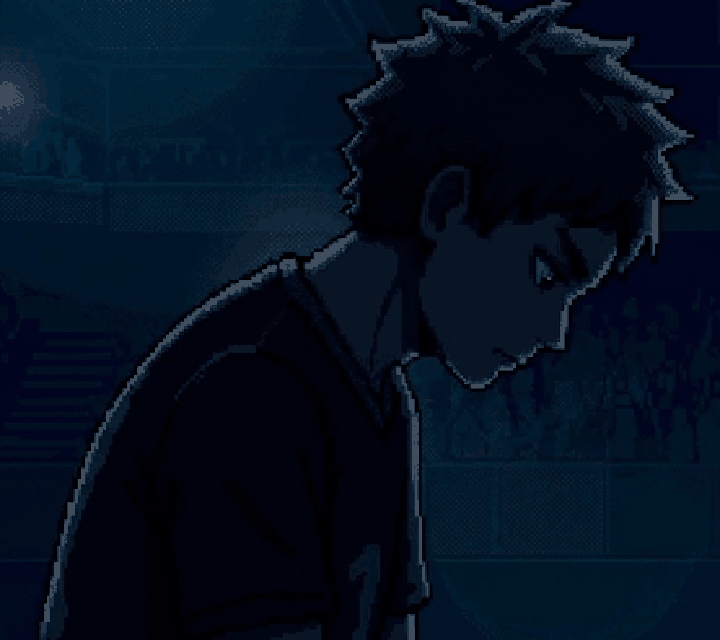
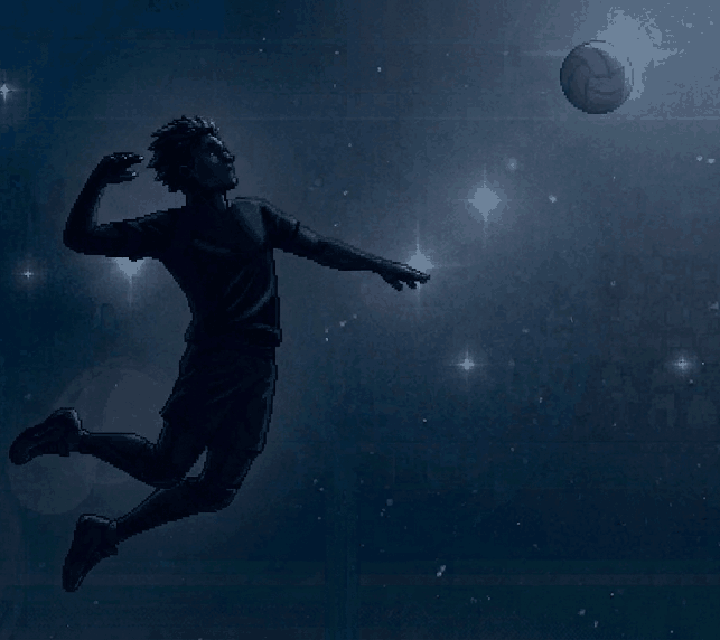
ZONA 3 CT1: just-in-attack correcto y espejado por atacante
- Reemplaza la imagen equivocada por just-in-attack2 y la procesa a
  720x640.
- El ataque local se muestra con el jugador a la izquierda y el rival
  a la derecha.
- TU DEFENSA usa just-in-attack en lugar de las manos del bloqueo.
- Ajusta el encuadre para que la pelota quede visible.
- 149 tests en verde.

diff --git a/app/tests/scenes.test.ts b/app/tests/scenes.test.ts
@@ -385,6 +385,51 @@ describe('guion de escenas CT1', () => {
     ).toBe(false)
   })
 
+  it('espeja el ataque según el lado que ataca', () => {
+    const pre = create()
+    const attackEvent = (
+      attackerId: string,
+      target: ReturnType<typeof cell>,
+    ): MatchEvent[] => [
+      {
+        type: 'ATTACK',
+        attackerId,
+        kind: 'power',
+        target,
+        resolution: {
+          A: 6,
+          D: 4,
+          edge: 2,
+          zone: 2,
+          outcome: 'dig',
+          digQuality: 2,
+          defenderId:
+            attackerId === 'home-opposite'
+              ? 'away-libero'
+              : 'home-libero',
+          blockerIds: [],
+          scheme: 'spread',
+        },
+      },
+    ]
+    const home = sceneScript(
+      pre,
+      attackEvent('home-opposite', cell('away', 2, 0)),
+      pre,
+      DEMO_TEAMS,
+    )[0]
+    const away = sceneScript(
+      pre,
+      attackEvent('away-opposite', cell('home', 2, 0)),
+      pre,
+      DEMO_TEAMS,
+    )[0]
+    expect(home.frame.shot).toBe('justInAttack')
+    expect(home.frame.mirror).toBe(false)
+    expect(away.frame.shot).toBe('justInAttack')
+    expect(away.frame.mirror).toBe(true)
+  })
+
   it('produce escenas con id y relato para un evento real del motor', () => {
     const pre: MatchState = create()
     const result = serve(pre, cell('away', 0, 0), mulberry32(3))

diff --git a/app/src/presentation/Ct1Screen.tsx b/app/src/presentation/Ct1Screen.tsx
@@ -315,9 +315,10 @@ export const Ct1Screen = ({
           : decision === 'defend'
             ? {
                 mode: 'closeup',
-                shot: 'block',
+                shot: 'justInAttack',
                 banner: 'TU DEFENSA',
                 tone: 'home',
+                mirror: match.possession === 'away',
               }
             : { mode: 'field' }
 

diff --git a/app/src/presentation/sceneScript.ts b/app/src/presentation/sceneScript.ts
@@ -216,6 +216,7 @@ export const sceneScript = (
             effect: 'speed',
             tone: side,
             shot: 'justInAttack',
+            mirror: side === 'away',
           },
           line: attackLine(
             attacker?.name ?? defender?.name ?? 'El atacante',

diff --git a/app/src/presentation/presentation.css b/app/src/presentation/presentation.css
@@ -236,6 +236,10 @@
   transform: scaleX(-1);
 }
 
+.ct1-frame[data-shot='justInAttack'] .ct1-frame-image {
+  object-position: center top;
+}
+
 .ct1-frame.is-shot {
   background: #05070d;
 }

diff --git a/tools/prepare-shots.py b/tools/prepare-shots.py
@@ -12,7 +12,7 @@ Entrada:
   art-source/principal/ready-to-serve.png
   art-source/principal/tu-ataque-por2.png
   art-source/principal/tu-ataque-por4.png
-  art-source/principal/just-in-attack.png
+  art-source/principal/just-in-attack2.png
   art-source/principal/setter-miss.png
   art-source/principal/ball-in-air.png
 
@@ -60,7 +60,7 @@ SHOTS = {
     "ready-to-serve": ("ready-to-serve.png", 0.45),
     "attack-2": ("tu-ataque-por2.png", 0.95),
     "attack-4": ("tu-ataque-por4.png", 0.37),
-    "just-in-attack": ("just-in-attack.png", 0.5),
+    "just-in-attack": ("just-in-attack2.png", 0.5),
     "setter-miss": ("setter-miss.png", 0.55),
     "ball-in-air": ("ball-in-air.png", 0.5),
 }

diff --git a/app/README.md b/app/README.md
@@ -15,7 +15,7 @@ leer la jugada rival y comprometerse antes de ver el resultado.
 - **S1 “Shell CT1” (demo)**: pantalla partida, comando → cuadro de acción →
   relato → resultado. Set a 25 desde 17-19, motor **6v6** con rotación
   side-out y líbero en zaga.
-- 148 tests en verde, `tsc -b`, `oxlint` y build de producción sin errores.
+- 149 tests en verde, `tsc -b`, `oxlint` y build de producción sin errores.
 - Balance simulado con 500 partidos IA vs IA (ver más abajo).
 - Pendiente: playtest con 5 personas y deploy en Vercel.
 
@@ -169,7 +169,7 @@ npm run dev
 El servidor queda en `http://127.0.0.1:5173/` (o el siguiente puerto libre).
 
 ```bash
-npm test        # 148 tests: motor, comandos, store, simulación, escenas y render
+npm test        # 149 tests: motor, comandos, store, simulación, escenas y render
 npm run build   # tsc -b && vite build
 npm run lint    # oxlint
 npm run preview # sirve dist/
